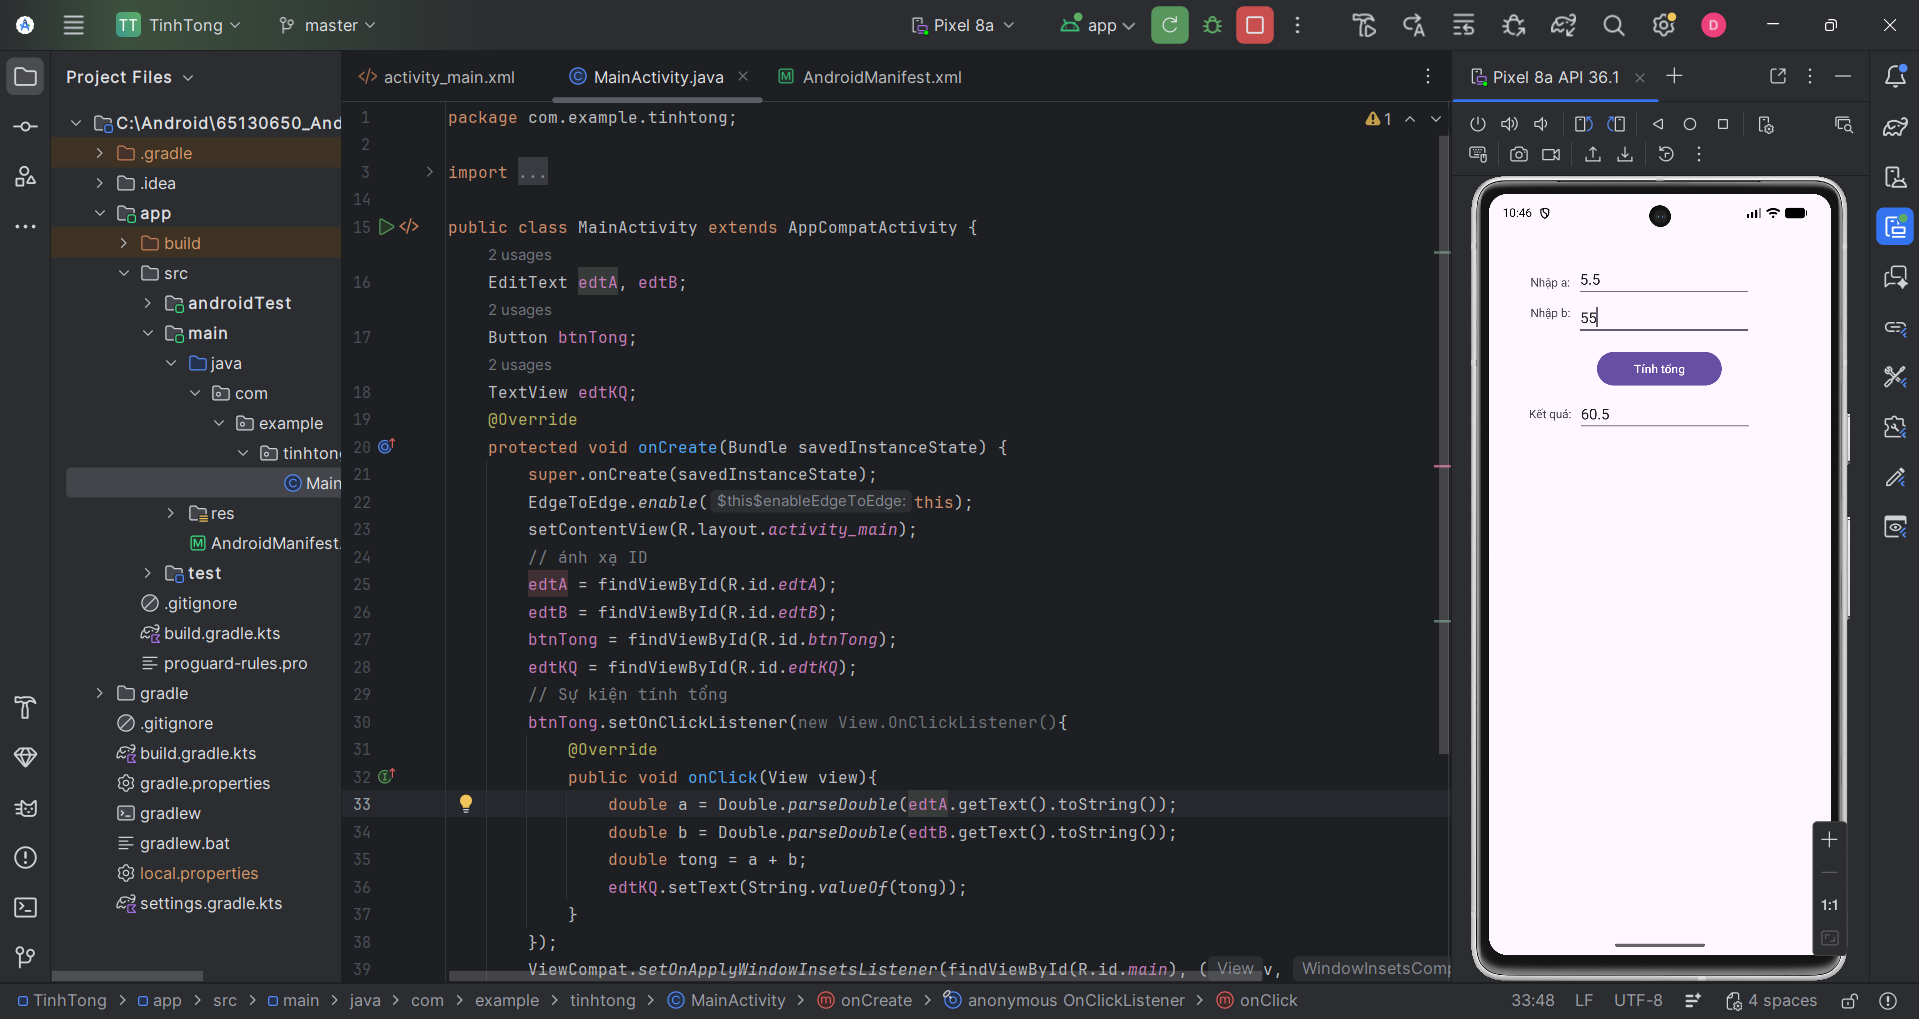
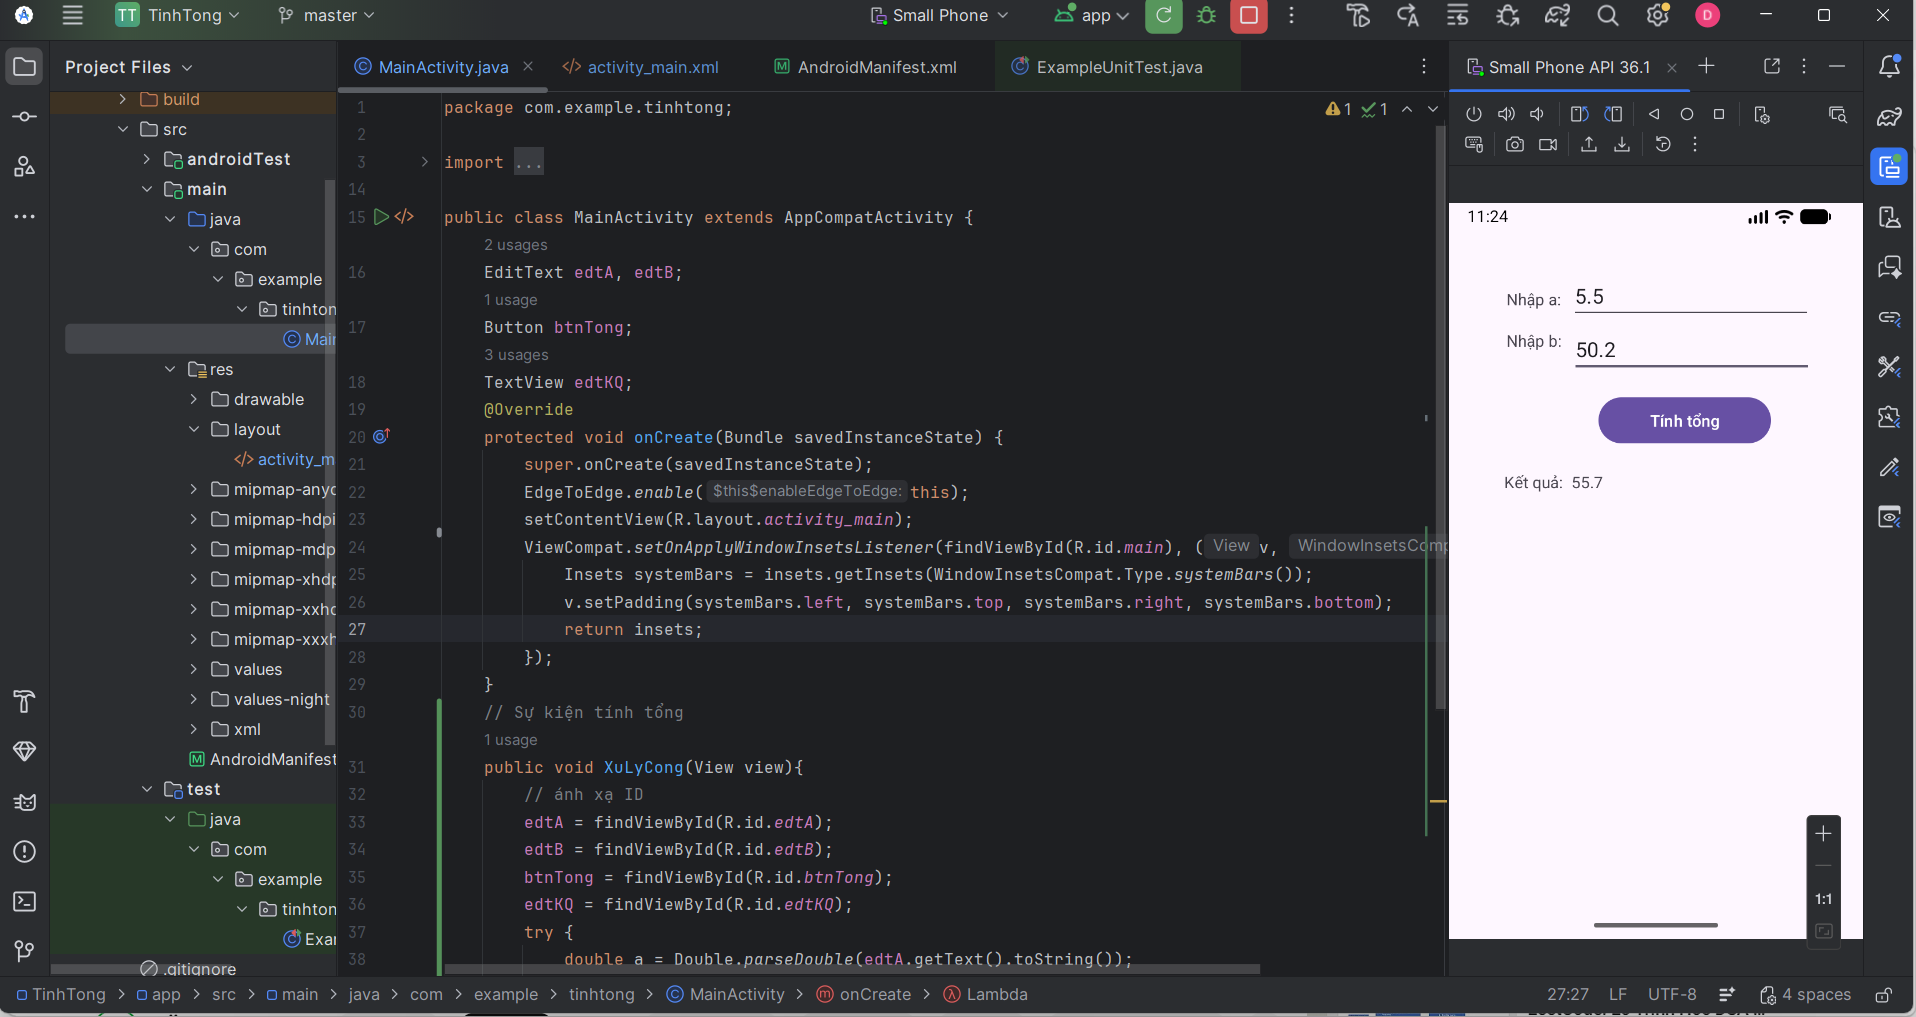
feat: fix tinhtong_app

diff --git a/TinhTong/app/src/main/java/com/example/tinhtong/MainActivity.java b/TinhTong/app/src/main/java/com/example/tinhtong/MainActivity.java
@@ -21,25 +21,27 @@ public class MainActivity extends AppCompatActivity {
         super.onCreate(savedInstanceState);
         EdgeToEdge.enable(this);
         setContentView(R.layout.activity_main);
-        // ánh xạ ID
-        edtA = findViewById(R.id.edtA);
-        edtB = findViewById(R.id.edtB);
-        btnTong = findViewById(R.id.btnTong);
-        edtKQ = findViewById(R.id.edtKQ);
-        // Sự kiện tính tổng
-        btnTong.setOnClickListener(new View.OnClickListener(){
-            @Override
-            public void onClick(View view){
-                double a = Double.parseDouble(edtA.getText().toString());
-                double b = Double.parseDouble(edtB.getText().toString());
-                double tong = a + b;
-                edtKQ.setText(String.valueOf(tong));
-            }
-        });
         ViewCompat.setOnApplyWindowInsetsListener(findViewById(R.id.main), (v, insets) -> {
             Insets systemBars = insets.getInsets(WindowInsetsCompat.Type.systemBars());
             v.setPadding(systemBars.left, systemBars.top, systemBars.right, systemBars.bottom);
             return insets;
         });
+    }
+    // Sự kiện tính tổng
+    public void XuLyCong(View view){
+        // ánh xạ ID
+        edtA = findViewById(R.id.edtA);
+        edtB = findViewById(R.id.edtB);
+        btnTong = findViewById(R.id.btnTong);
+        edtKQ = findViewById(R.id.edtKQ);
+        try {
+            double a = Double.parseDouble(edtA.getText().toString());
+            double b = Double.parseDouble(edtB.getText().toString());
+            double tong = a + b;
+            edtKQ.setText(String.valueOf(tong));
+        }
+        catch (Exception e){
+            edtKQ.setText("Lỗi nhập liệu!");
+        }
     }
 }
